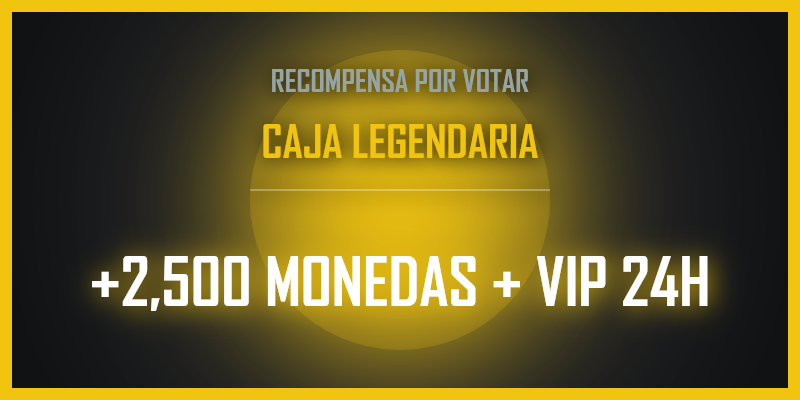
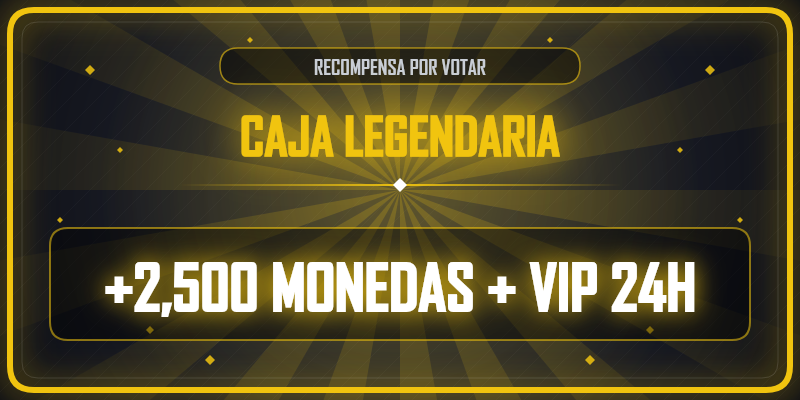
docs: refresh canvas previews with redesigned cards

diff --git a/README.md b/README.md
@@ -153,7 +153,7 @@ sequenceDiagram
 
 ## Capturas del Motor Gráfico (`@napi-rs/canvas`)
 
-Las siguientes imágenes fueron renderizadas directamente con los generadores reales de `CriZpy-Bot` (`canvasWelcomeCard.js`, `canvasFarewellCard.js` y `canvasVoteCrate.js`):
+Las siguientes imágenes fueron renderizadas con los generadores reales de `CriZpy-Bot` (`canvasWelcomeCard.js`, `canvasFarewellCard.js` y `canvasVoteCrate.js`), usando la **configuración por defecto** del bot y un avatar de muestra (en producción se usa el avatar real del usuario):
 
 | Tarjeta de Bienvenida (`/bienvenida canvas`) | Tarjeta de Despedida (`/despedida canvas`) |
 | :---: | :---: |
